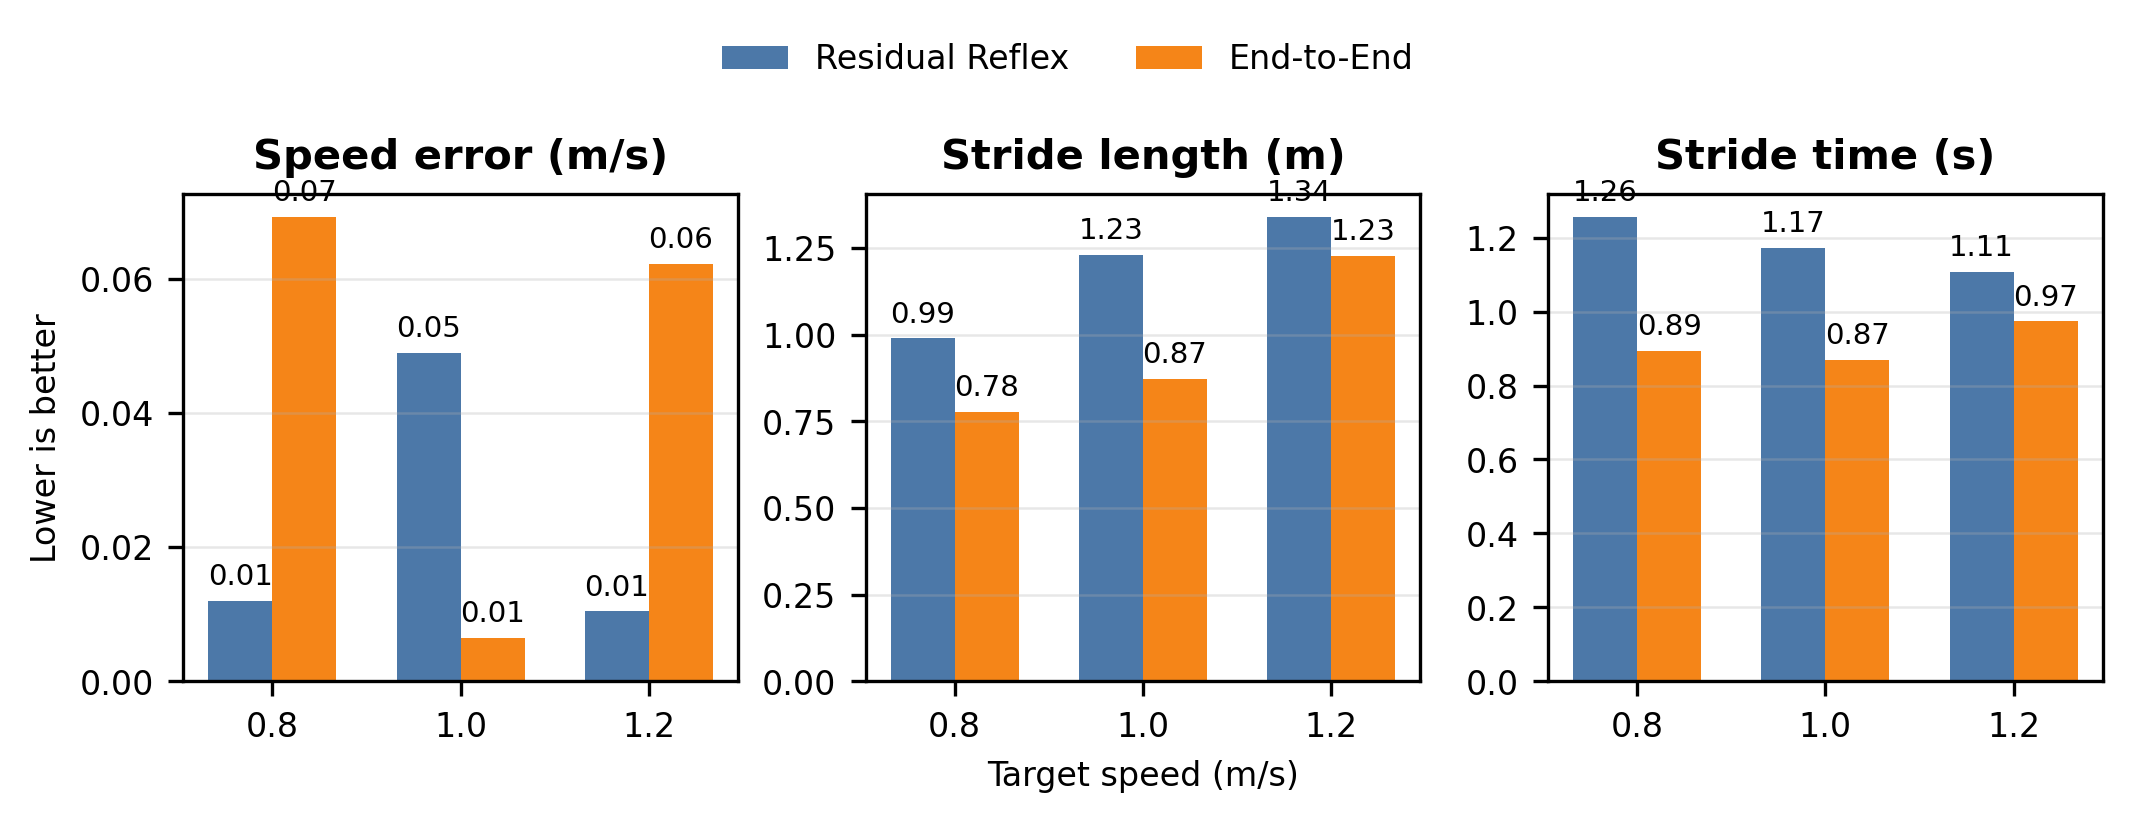
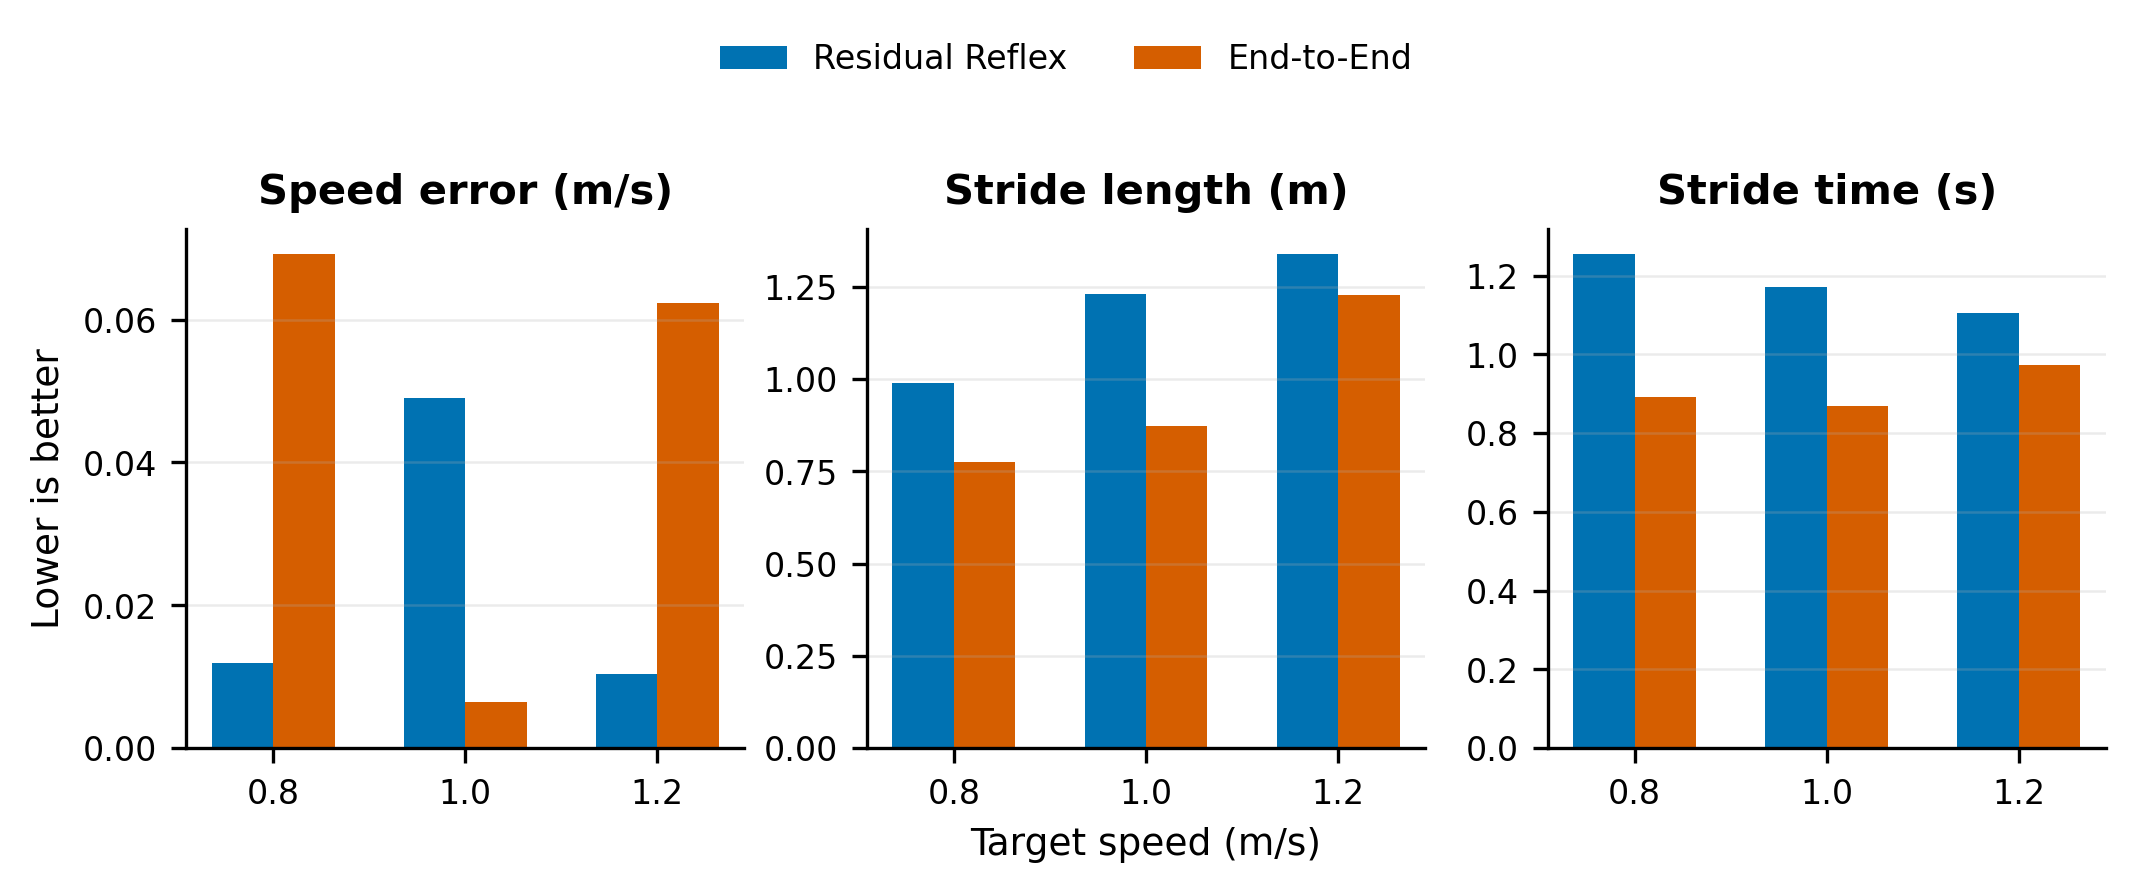
Polish result figures and highlight best metrics

diff --git a/main.tex b/main.tex
@@ -535,11 +535,11 @@ computed from normalized gait-cycle kinematics and vertical GRF.}
 \toprule
 \textbf{Target} & \textbf{Method} & \textbf{Real.} & \textbf{Overall} & \textbf{Hip} & \textbf{Knee} & \textbf{Ankle} & \textbf{GRF} \\
 \midrule
-0.8 & Residual Reflex & 0.79 & 84.2 & 96.6 & 68.9 & 78.5 & 76.7 \\
-0.8 & End-to-End & 0.87 & 50.5 & 98.3 & 18.6 & 0.0 & 35.9 \\
-1.0 & Residual Reflex & 1.05 & 92.3 & 100.0 & 82.6 & 88.9 & 89.8 \\
+0.8 & Residual Reflex & 0.79 & \textbf{84.2} & 96.6 & \textbf{68.9} & \textbf{78.5} & \textbf{76.7} \\
+0.8 & End-to-End & 0.87 & 50.5 & \textbf{98.3} & 18.6 & 0.0 & 35.9 \\
+1.0 & Residual Reflex & 1.05 & \textbf{92.3} & \textbf{100.0} & \textbf{82.6} & \textbf{88.9} & \textbf{89.8} \\
 1.0 & End-to-End & 1.01 & 70.9 & 99.9 & 45.4 & 61.5 & 48.0 \\
-1.2 & Residual Reflex & 1.21 & 93.2 & 99.6 & 88.7 & 88.6 & 89.1 \\
+1.2 & Residual Reflex & 1.21 & \textbf{93.2} & \textbf{99.6} & \textbf{88.7} & \textbf{88.6} & \textbf{89.1} \\
 1.2 & End-to-End & 1.26 & 69.6 & 88.4 & 52.4 & 85.9 & 21.5 \\
 \bottomrule
 \end{tabular}%
@@ -578,11 +578,11 @@ error is the absolute difference between realized and target speed.}
 \toprule
 \textbf{Target} & \textbf{Method} & \textbf{Real. speed} & \textbf{Error} & \textbf{Stride len.} & \textbf{Stride time} & \textbf{Cycles} \\
 \midrule
-0.8 & Residual Reflex & 0.79 & 0.01 & 0.99 & 1.26 & 35 \\
+0.8 & Residual Reflex & 0.79 & \textbf{0.01} & 0.99 & 1.26 & 35 \\
 0.8 & End-to-End & 0.87 & 0.07 & 0.78 & 0.89 & 50 \\
 1.0 & Residual Reflex & 1.05 & 0.05 & 1.23 & 1.17 & 37 \\
-1.0 & End-to-End & 1.01 & 0.01 & 0.87 & 0.87 & 53 \\
-1.2 & Residual Reflex & 1.21 & 0.01 & 1.34 & 1.11 & 40 \\
+1.0 & End-to-End & 1.01 & \textbf{0.01} & 0.87 & 0.87 & 53 \\
+1.2 & Residual Reflex & 1.21 & \textbf{0.01} & 1.34 & 1.11 & 40 \\
 1.2 & End-to-End & 1.26 & 0.06 & 1.23 & 0.97 & 46 \\
 \bottomrule
 \end{tabular}%
@@ -655,11 +655,11 @@ Lower values indicate more symmetric or more repeatable gait.}
 \toprule
 \textbf{Target} & \textbf{Method} & \textbf{Hip} & \textbf{Knee} & \textbf{Ankle} & \textbf{GRF} & \textbf{Time CV} & \textbf{Length CV} \\
 \midrule
-0.8 & Residual Reflex & 0.80 & 1.03 & 0.89 & 0.04 & 1.98 & 5.66 \\
+0.8 & Residual Reflex & \textbf{0.80} & \textbf{1.03} & \textbf{0.89} & \textbf{0.04} & \textbf{1.98} & \textbf{5.66} \\
 0.8 & End-to-End & 2.92 & 5.75 & 6.36 & 0.10 & 9.05 & 14.88 \\
-1.0 & Residual Reflex & 1.78 & 1.85 & 0.97 & 0.03 & 1.51 & 1.86 \\
+1.0 & Residual Reflex & \textbf{1.78} & \textbf{1.85} & \textbf{0.97} & \textbf{0.03} & \textbf{1.51} & \textbf{1.86} \\
 1.0 & End-to-End & 2.97 & 4.08 & 2.18 & 0.08 & 6.05 & 8.27 \\
-1.2 & Residual Reflex & 0.87 & 0.87 & 0.46 & 0.02 & 0.70 & 0.74 \\
+1.2 & Residual Reflex & \textbf{0.87} & \textbf{0.87} & \textbf{0.46} & \textbf{0.02} & \textbf{0.70} & \textbf{0.74} \\
 1.2 & End-to-End & 3.43 & 3.00 & 9.84 & 0.04 & 3.87 & 5.83 \\
 \bottomrule
 \end{tabular}%
